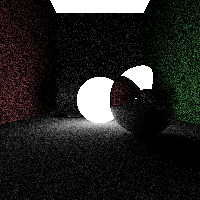
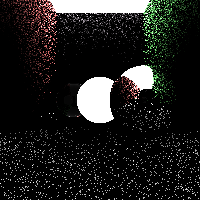
somehow managed to break spheres but make triangles work wtf.

diff --git a/src/scene/Scene.cs b/src/scene/Scene.cs
@@ -17,8 +17,8 @@ namespace RayTracer
 
         private const double FOV = 60.0f;
         private const int MAX_DEPTH = 5;
-        private const int SHADE_SAMPLES = 7;
-        private const int NUM_DOF_RAYS = 10;
+        private const int SHADE_SAMPLES = 5;
+        private const int NUM_DOF_RAYS = 4;
 
         private SceneOptions options;
         private ISet<SceneEntity> entities;
@@ -172,7 +172,6 @@ namespace RayTracer
                         Ray shadowRay = new Ray(sourceRh.Position, lightDir).Offset();
                         RayHit shadowRh = ClosestHit(shadowRay);
 
-                        //if (shadowRh == null) Debugger.Break();
                         if (shadowRh == null) continue;
                         if (shadowRh != null && shadowRh.Material.Type != Material.MaterialType.Emissive) continue;
 
@@ -209,8 +208,7 @@ namespace RayTracer
                     if (!(e.Material.Type == Material.MaterialType.Emissive)) continue;
                     for (int i = 0; i < SHADE_SAMPLES; i++)
                     {
-                        //Console.WriteLine(e.ShadowRayAngle(sourceRh));
-                        Vector3 lightDir = Mat3.RandomRotate(e.ShadowRayAngle(sourceRh) / 2.0f, (e.GetCenter() - sourceRh.Position).Normalized());
+                        Vector3 lightDir = Mat3.RandomRotate(e.ShadowRayAngle(sourceRh), sourceRh.Position - e.GetCenter());
                         Ray shadowRay = new Ray(sourceRh.Position, lightDir.Normalized()).Offset();
                         RayHit shadowRh = ClosestHit(shadowRay);
 

diff --git a/src/scene/primitives/Triangle.cs b/src/scene/primitives/Triangle.cs
@@ -81,8 +81,7 @@ namespace RayTracer
                 perpL = new Vector3(1.0f, 0.0f, 0.0f);
             }
 
-            Vector3 toLightEdge = ((center + perpL * longestLen * 0.5f) - srh.Position).Normalized();
-            // return Math.Acos(toLight.Dot(toLightEdge)) * 2.0f; // Angle
+            Vector3 toLightEdge = ((center + perpL * longestLen / 2.0f) - srh.Position).Normalized();
             return toLight.Dot(toLightEdge);
         }
 
